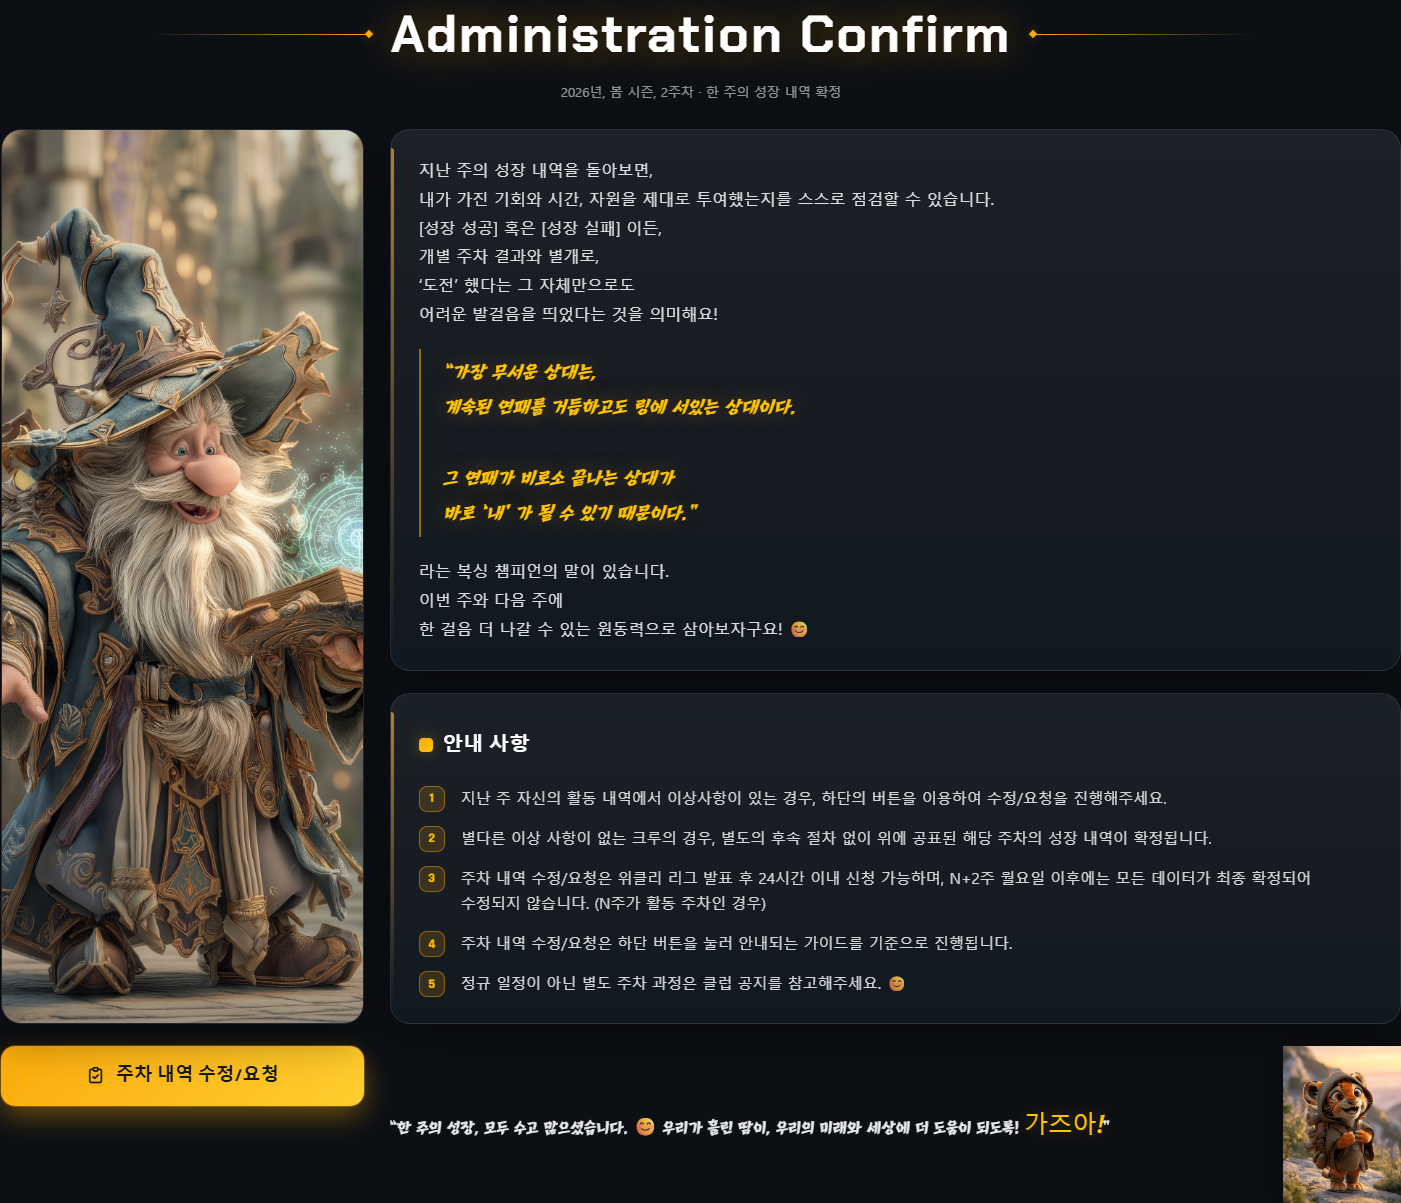
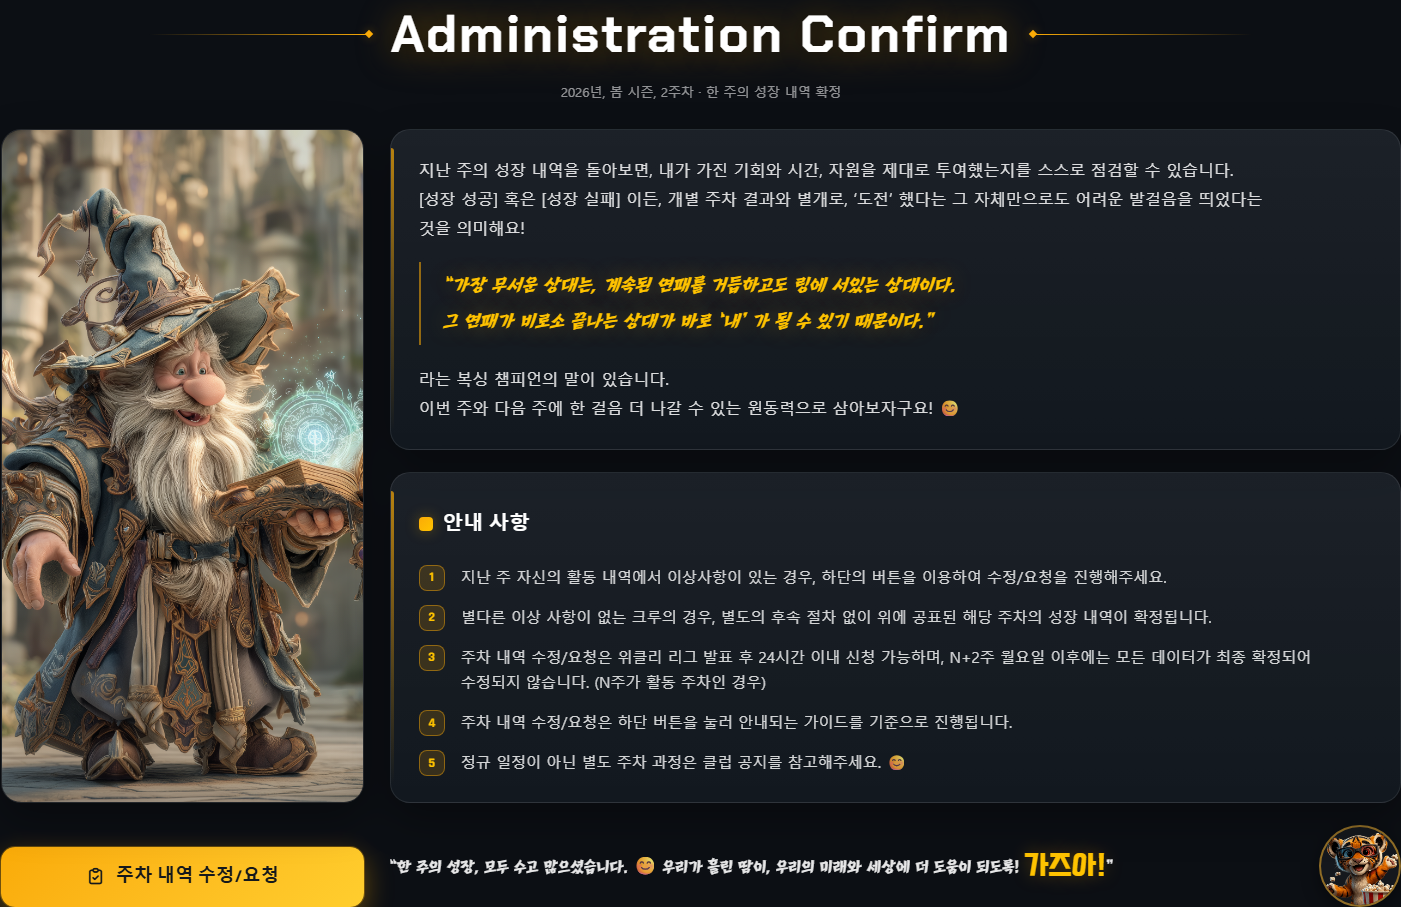
fix(weekly-detail): Administration Confirm 후속 — 가즈아 폰트·바닥선 정렬·원형 캐릭터
1. "가즈아!" 폰트: --wd-font-cheer(Cafe24Ohsquare) 신설 — 본문(HakgyoansimTuho)과
   확실히 구분되는 힘있고 장난스러운 chunky 디자인 폰트, 1.5em·accent·glow.
2. CTA·closing 바닥선 정렬: 둘 다 align-self:end → 하단 y좌표 일치(실측 1353=1353).
3. org 캐릭터 교체: cluster-2 사용(encre=ec 01 / oranke=ok 01 / phalanx=px 01.png).
4. 원형 크롭: border-radius:50% + object-fit:cover + aspect-ratio 1/1(정사각) +
   org별 object-position(얼굴 중심: ok 47% 22% / ec 47% 20% / px 42% 24%) 인라인 지정.
   accent 링·shadow 추가.

검증(브라우저): 가즈아≠본문 폰트 3org ✓, CTA.bottom==closing.bottom ✓,
src ec/ok/px 01 정확 ✓, 원형·정사각·얼굴중심 ✓, PC/Tablet/Mobile 정상, 컴파일 에러 0.

Changed region(s): [[0.0, 0.0, 0.9515, 1.0], [0.8901, 0.8644, 1.0, 1.0], [0.7673, 0.1852, 0.8901, 0.247]]

diff --git a/components/weekly-ranking/WeeklyDetailContent.tsx b/components/weekly-ranking/WeeklyDetailContent.tsx
@@ -445,15 +445,16 @@ export default function WeeklyDetailContent({ weekId, org }: WeeklyDetailContent
   const crewPageSafe = Math.min(Math.max(1, wrsPage), crewPageCount);
   const crewPageItems = crewSorted.slice((crewPageSafe - 1) * WRS_PER_PAGE, crewPageSafe * WRS_PER_PAGE);
   const cluster4Base = resolveCluster4Base(org);
-  // [6] Administration Confirm — org 대표 캐릭터(아호). encre=사슴 / oranke=호랑이 / phalanx=고슴도치.
-  //   Cluster4Content 와 동일 파일 규약(-px / -ec / 기본). null·미매칭은 기본(호랑이) 폴백.
+  // [6] Administration Confirm — org 대표 캐릭터(cluster-2, 원형 아바타). encre=사슴 / oranke=호랑이 / phalanx=고슴도치.
+  //   원형 크롭 시 얼굴이 중심에 오도록 org별 object-position(캐릭터 프레이밍이 서로 달라 개별 지정).
+  //   null·미매칭은 기본(오랑캐 호랑이) 폴백.
   const orgKeyForCharacter = normalizeOrgKey(org);
-  const orgCharacterSrc =
+  const orgCharacter =
     orgKeyForCharacter === "phalanx"
-      ? "/images/0/cluster4/아호 캐릭터-px.png"
+      ? { src: "/images/0/cluster 2/px 01.png", pos: "42% 24%" }
       : orgKeyForCharacter === "encre"
-        ? "/images/0/cluster4/아호 캐릭터-ec.png"
-        : "/images/0/cluster4/아호 캐릭터.png";
+        ? { src: "/images/0/cluster 2/ec 01.png", pos: "47% 20%" }
+        : { src: "/images/0/cluster 2/ok 01.png", pos: "47% 22%" };
   const crewDetailHref = (c: CrewRankShowcase) =>
     `${cluster4Base}/${encodeURIComponent(c.weekId)}?userId=${encodeURIComponent(c.userId)}${
       org ? `&org=${encodeURIComponent(org)}` : ""
@@ -1227,17 +1228,17 @@ export default function WeeklyDetailContent({ weekId, org }: WeeklyDetailContent
           {/* [2] 안내 메시지(우측 상단) */}
           <div className="wd-ac__card wd-ac__card--message">
             <p className="wd-ac__msg">
-              {"지난 주의 성장 내역을 돌아보면,\n내가 가진 기회와 시간, 자원을 제대로 투여했는지를 스스로 점검할 수 있습니다."}
+              {"지난 주의 성장 내역을 돌아보면, 내가 가진 기회와 시간, 자원을 제대로 투여했는지를 스스로 점검할 수 있습니다."}
             </p>
             <p className="wd-ac__msg">
-              {"[성장 성공] 혹은 [성장 실패] 이든,\n개별 주차 결과와 별개로,\n‘도전’ 했다는 그 자체만으로도\n어려운 발걸음을 띄었다는 것을 의미해요!"}
+              {"[성장 성공] 혹은 [성장 실패] 이든, 개별 주차 결과와 별개로, ‘도전’ 했다는 그 자체만으로도 어려운 발걸음을 띄었다는 것을 의미해요!"}
             </p>
             <blockquote className="wd-ac__quote">
-              {"“가장 무서운 상대는,\n계속된 연패를 거듭하고도 링에 서있는 상대이다.\n\n그 연패가 비로소 끝나는 상대가\n바로 ‘내’ 가 될 수 있기 때문이다.”"}
+              {"“가장 무서운 상대는, 계속된 연패를 거듭하고도 링에 서있는 상대이다.\n그 연패가 비로소 끝나는 상대가 바로 ‘내’ 가 될 수 있기 때문이다.”"}
             </blockquote>
             <p className="wd-ac__msg">라는 복싱 챔피언의 말이 있습니다.</p>
             <p className="wd-ac__msg">
-              {"이번 주와 다음 주에\n한 걸음 더 나갈 수 있는 원동력으로 삼아보자구요! 😊"}
+              {"이번 주와 다음 주에 한 걸음 더 나갈 수 있는 원동력으로 삼아보자구요! 😊"}
             </p>
           </div>
 
@@ -1276,7 +1277,12 @@ export default function WeeklyDetailContent({ weekId, org }: WeeklyDetailContent
               <em>가즈아!</em>
               {"”"}
             </p>
-            <img className="wd-ac__mascot" src={orgCharacterSrc} alt="조직 대표 캐릭터" />
+            <img
+              className="wd-ac__mascot"
+              src={orgCharacter.src}
+              style={{ objectPosition: orgCharacter.pos }}
+              alt="조직 대표 캐릭터"
+            />
           </div>
         </div>
       </section>

diff --git a/app/(host)/assets/scss/components/_weekly-detail.scss b/app/(host)/assets/scss/components/_weekly-detail.scss
@@ -52,6 +52,7 @@
   --wd-font-subhead: "HakgyoansimTuho", "Pretendard", sans-serif;            // 주차명
   --wd-font-quote: "HakgyoansimTuho", "Pretendard", serif;                   // 격언
   --wd-font-script: var(--lobster, "HakgyoansimTuho", cursive);              // 저자 서명
+  --wd-font-cheer: "Cafe24Ohsquare", "HakgyoansimTuho", sans-serif;          // 가즈아! 등 힘있고 장난스러운 강조
   --wd-font-body: "Pretendard", sans-serif;                                  // 본문(유지)
 
   // ── 대시보드 시맨틱 컬러(성공=green / 실패=red / 도전=blue / 휴식=gray) ──
@@ -2981,10 +2982,11 @@
       }
     }
 
-    /* [4] CTA — 좌측 이미지 바로 아래(row3, image 컬럼 폭 채움). 큰 accent-fill 버튼(프리미엄) */
+    /* [4] CTA — 좌측 이미지 바로 아래(row3, image 컬럼 폭 채움). 큰 accent-fill 버튼(프리미엄).
+       closing 과 하단 y좌표를 맞추기 위해 둘 다 align-self:end(바닥선 정렬). */
     &__cta {
       grid-area: button;
-      align-self: start;
+      align-self: end;
       display: flex;
       align-items: center;
       justify-content: center;
@@ -3016,7 +3018,7 @@
     /* [5] 마지막 멘트(길게) + 맨 우측 캐릭터 — row3 우측, 버튼 오른쪽 한 줄 */
     &__closing {
       grid-area: closing;
-      align-self: center;
+      align-self: end; // CTA 와 바닥선(하단 y) 일치
       display: flex;
       align-items: center;
       justify-content: space-between;
@@ -3034,19 +3036,27 @@
       word-break: keep-all;
       overflow-wrap: break-word;
       em {
+        // 힘있고 장난스러운 응원 강조 — 본문(subhead)과 확실히 구분되는 chunky 디자인 폰트.
         font-style: normal;
-        font-family: var(--wd-font-script);
-        font-size: 1.35em;
+        font-family: var(--wd-font-cheer);
+        font-size: 1.5em;
+        letter-spacing: 0.01em;
         color: var(--wd-accent-soft);
         text-shadow: 0 0 18px var(--wd-glow);
       }
     }
     &__mascot {
       flex-shrink: 0;
-      width: clamp(88px, 9vw, 118px);
+      // 원형 아바타 — 얼굴 중심 크롭(object-position 은 org별로 인라인 지정).
+      width: clamp(68px, 6.2vw, 82px);
+      aspect-ratio: 1 / 1;
       height: auto;
-      object-fit: contain;
-      filter: drop-shadow(0 8px 22px rgba(0, 0, 0, 0.45));
+      border-radius: 50%;
+      object-fit: cover;
+      object-position: 47% 22%; // 기본(오랑캐 호랑이) — 인라인 style 로 org별 override
+      border: 2px solid color-mix(in srgb, var(--wd-accent) 45%, rgba(255, 255, 255, 0.16));
+      background: rgba(255, 255, 255, 0.04);
+      box-shadow: 0 6px 18px rgba(0, 0, 0, 0.42);
     }
   }
 }
